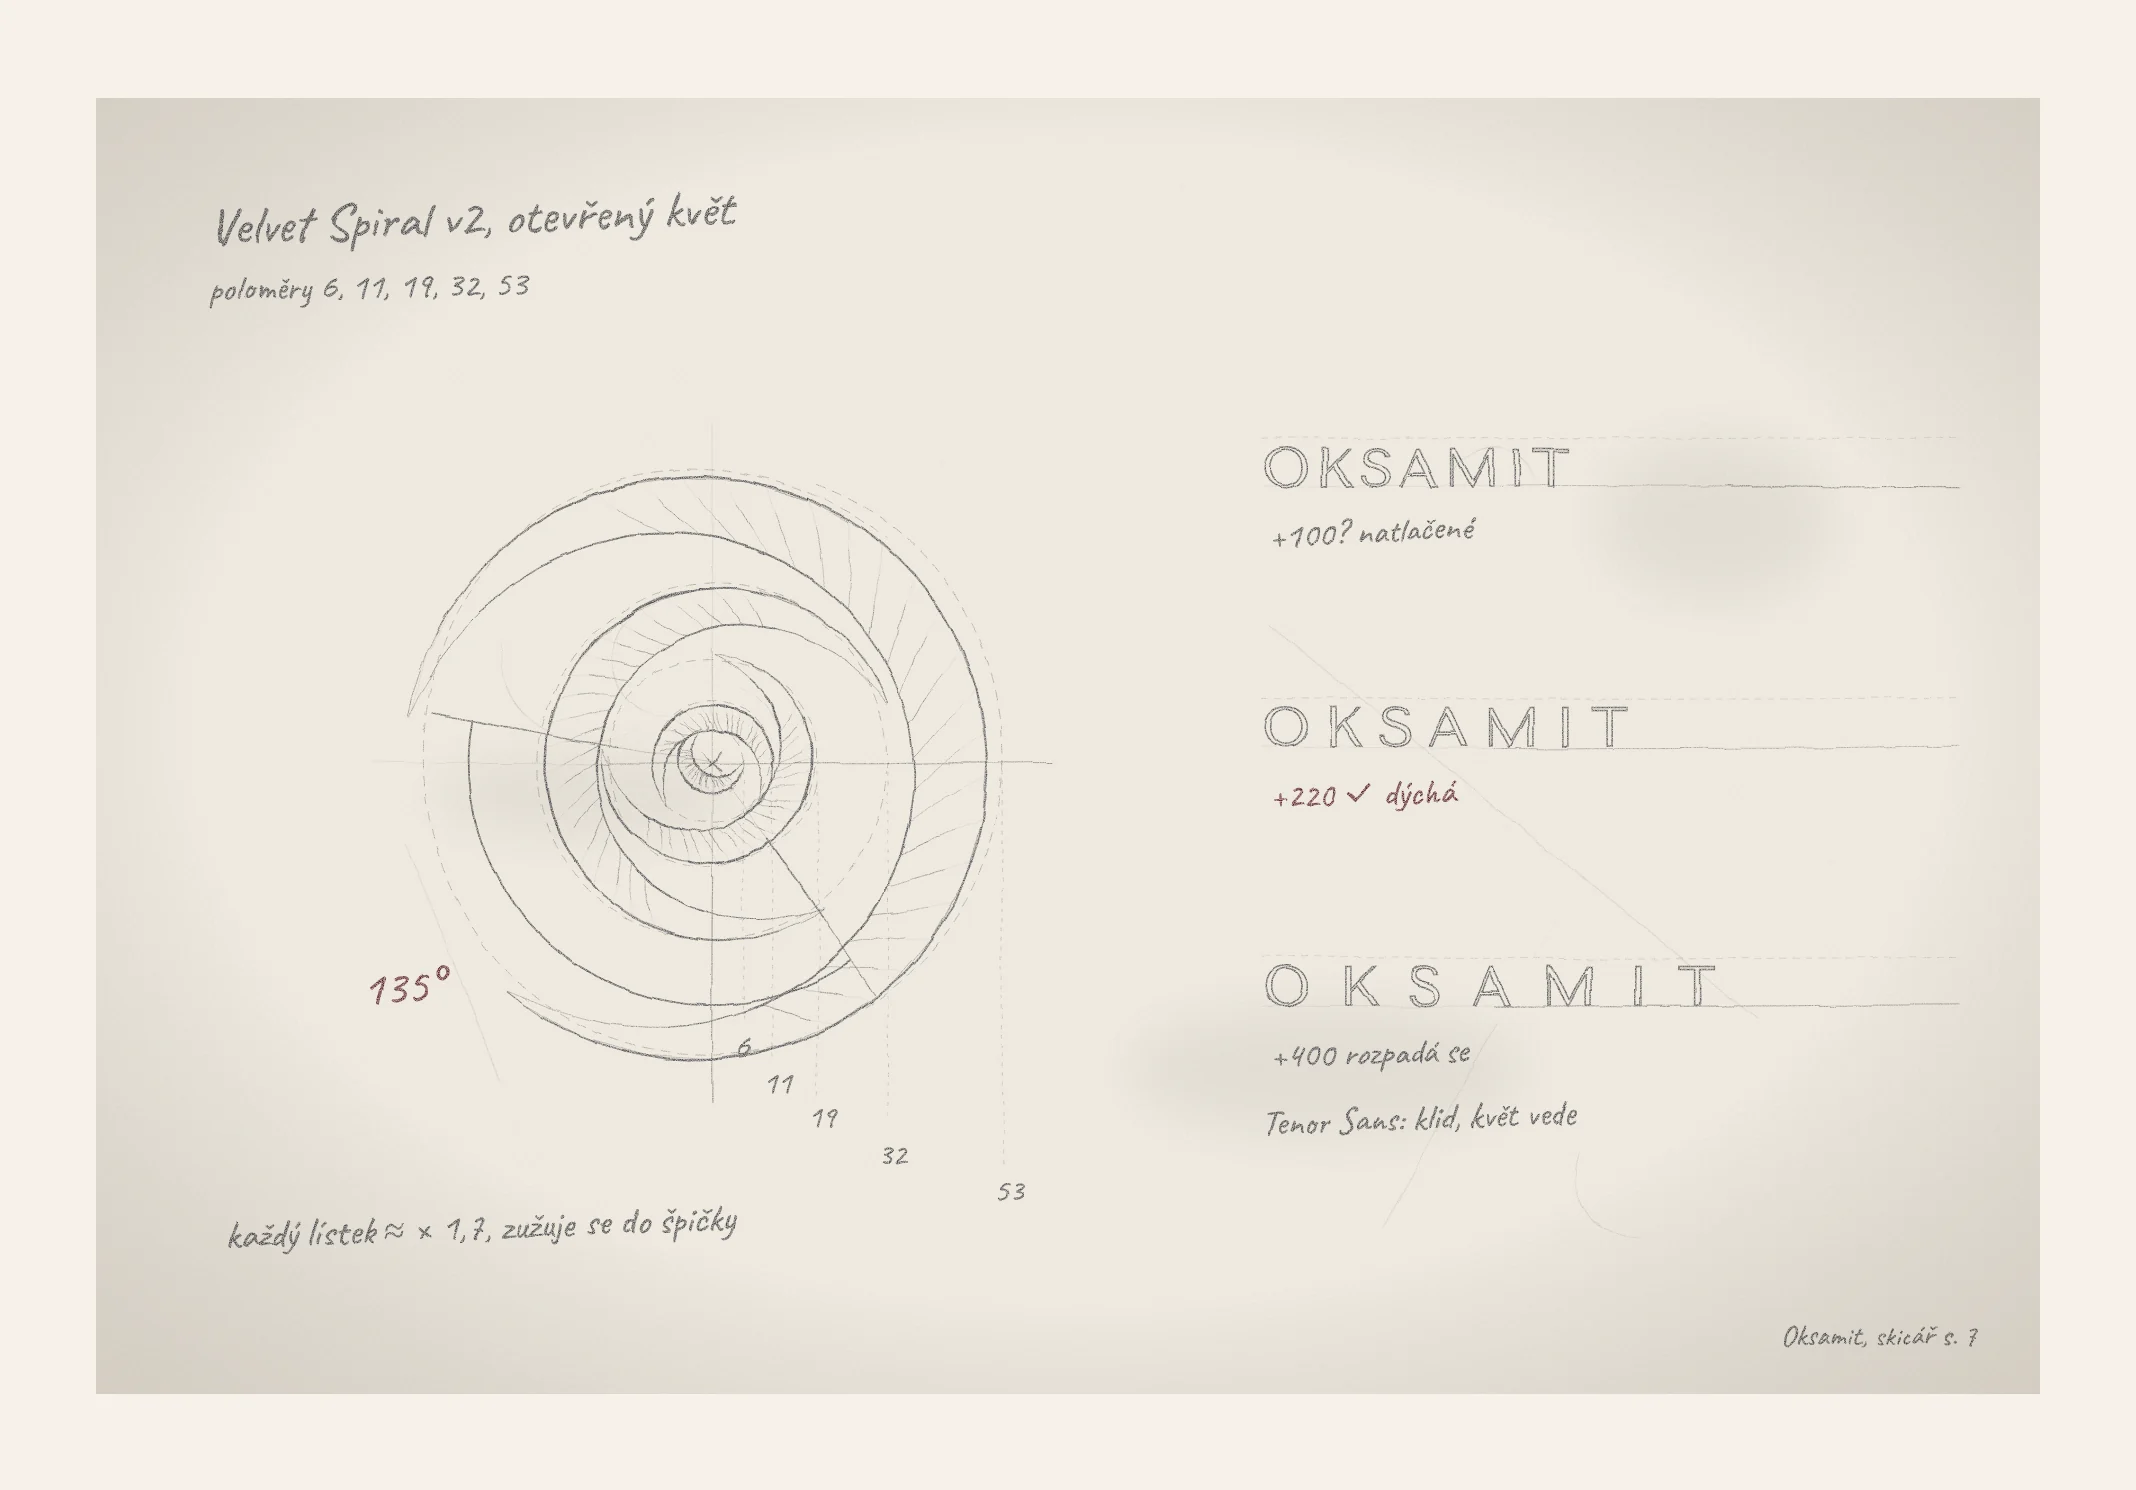
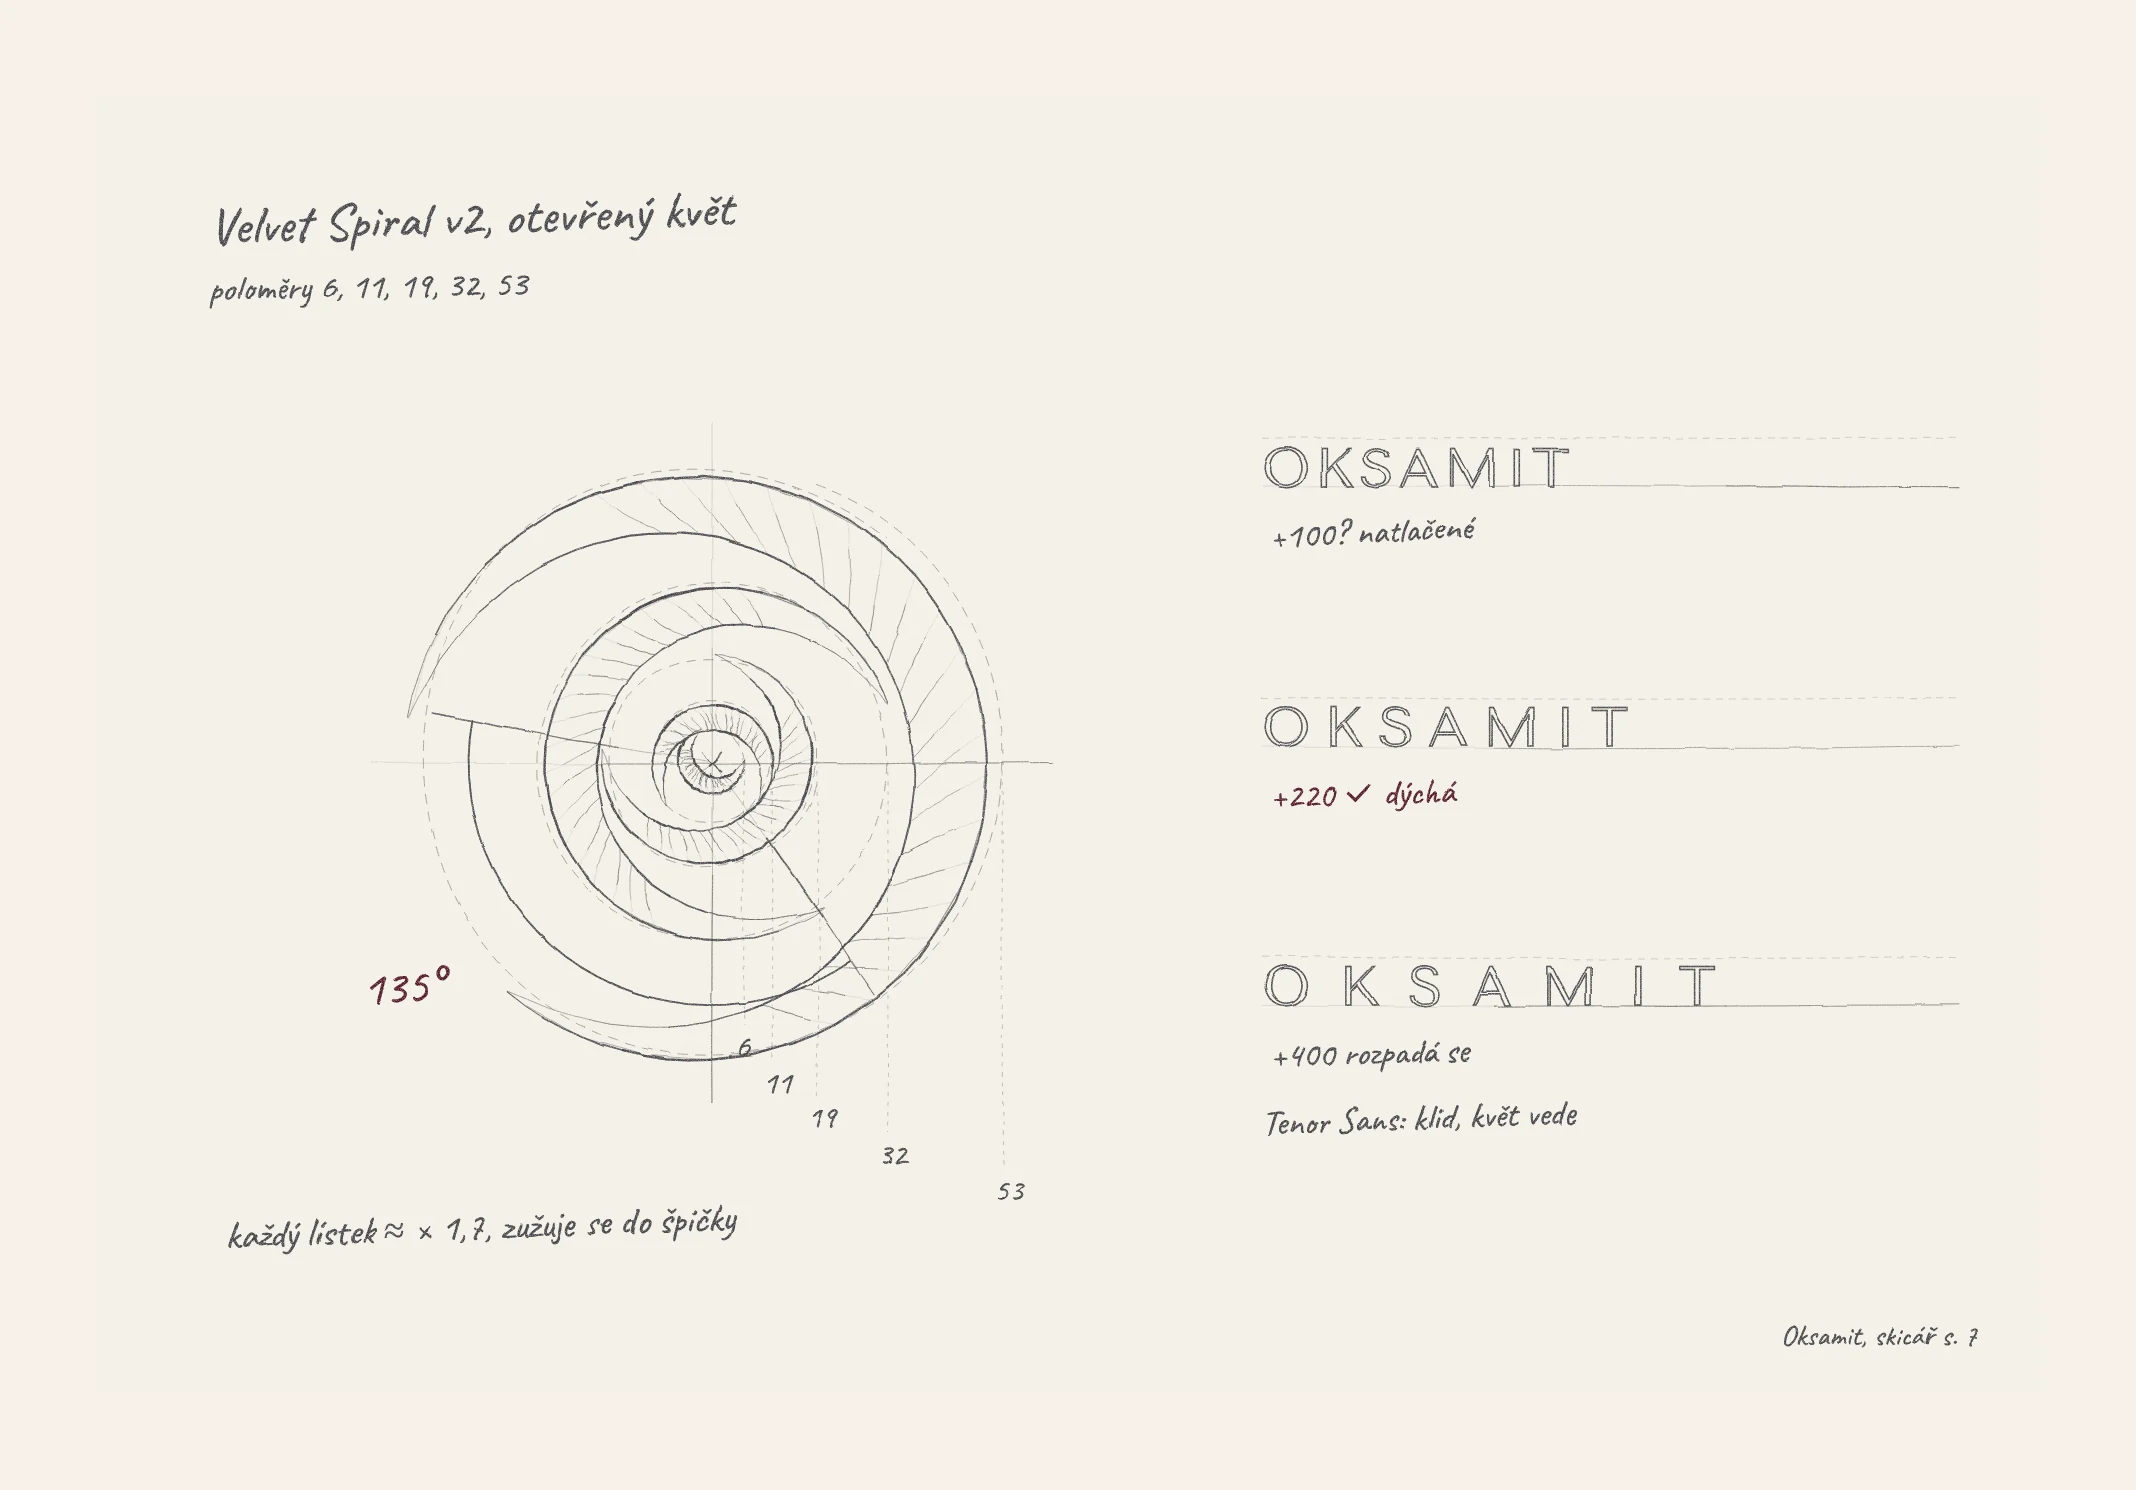
Oksamit Flora: cleaner sketchbook scans

diff --git a/work/oksamit-flora.html b/work/oksamit-flora.html
@@ -148,7 +148,7 @@
       <p>Then a question: what if the O is a flower, seen from above? The first spiral looked like a snail, the next like a target, and a shifted one was still a target. The answer came when the petals started to unfold and the O closed around them. At 16 pixels it stayed legible.</p>
       <p>The five petals stand for the five steps every rose goes through: cutting, auction, selection, arranging and delivery.</p>
     </div>
-    <figure class="figure"><img src="../assets/img/oksamit/sketch-shape.webp" srcset="../assets/img/oksamit/sketch-shape-800.webp 800w, ../assets/img/oksamit/sketch-shape.webp 2136w" sizes="(max-width: 1200px) 92vw, 1100px" width="2136" height="1490" alt="Pencil sketchbook page: a crossed-out tulip, a line-drawn rose, a framed still life, a petal study, a row of spirals and small 16-pixel tests" loading="lazy"><figcaption>Sketchbook, page 3 (notes in Czech)</figcaption></figure>
+    <figure class="figure"><img src="../assets/img/oksamit/sketch-shape.webp?v=2" srcset="../assets/img/oksamit/sketch-shape-800.webp?v=2 800w, ../assets/img/oksamit/sketch-shape.webp?v=2 2136w" sizes="(max-width: 1200px) 92vw, 1100px" width="2136" height="1490" alt="Pencil sketchbook page: a crossed-out tulip, a line-drawn rose, a framed still life, a petal study, a row of spirals and small 16-pixel tests" loading="lazy"><figcaption>Sketchbook, page 3 (notes in Czech)</figcaption></figure>
   </div>
 </section>
 
@@ -173,7 +173,7 @@
       <p>In the final version the bloom is open. Its five petals have radii of 6, 11, 19, 32 and 53, so each one is about 1.7 times larger than the last, and each tapers to a fine point. The spiral opens at 135°.</p>
       <p>For the name I chose Tenor Sans and tested the letter spacing: at +100 it felt cramped, at +400 it fell apart, at +220 it breathes. The type stays calm and lets the flower lead.</p>
     </div>
-    <figure class="figure"><img src="../assets/img/oksamit/sketch-construction.webp" srcset="../assets/img/oksamit/sketch-construction-800.webp 800w, ../assets/img/oksamit/sketch-construction.webp 2136w" sizes="(max-width: 1200px) 92vw, 1100px" width="2136" height="1490" alt="Pencil construction drawing of the spiral with radii 6, 11, 19, 32 and 53 and a 135 degree angle, next to three letter-spacing tests of the word OKSAMIT" loading="lazy"><figcaption>Sketchbook, page 7: the spiral’s construction and letter-spacing tests</figcaption></figure>
+    <figure class="figure"><img src="../assets/img/oksamit/sketch-construction.webp?v=2" srcset="../assets/img/oksamit/sketch-construction-800.webp?v=2 800w, ../assets/img/oksamit/sketch-construction.webp?v=2 2136w" sizes="(max-width: 1200px) 92vw, 1100px" width="2136" height="1490" alt="Pencil construction drawing of the spiral with radii 6, 11, 19, 32 and 53 and a 135 degree angle, next to three letter-spacing tests of the word OKSAMIT" loading="lazy"><figcaption>Sketchbook, page 7: the spiral’s construction and letter-spacing tests</figcaption></figure>
   </div>
 </section>
 
